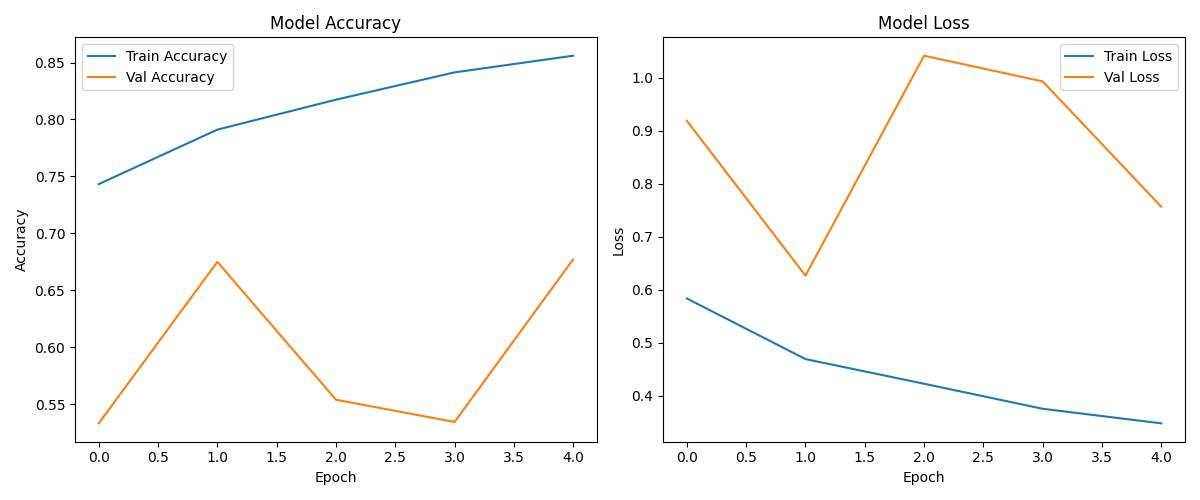
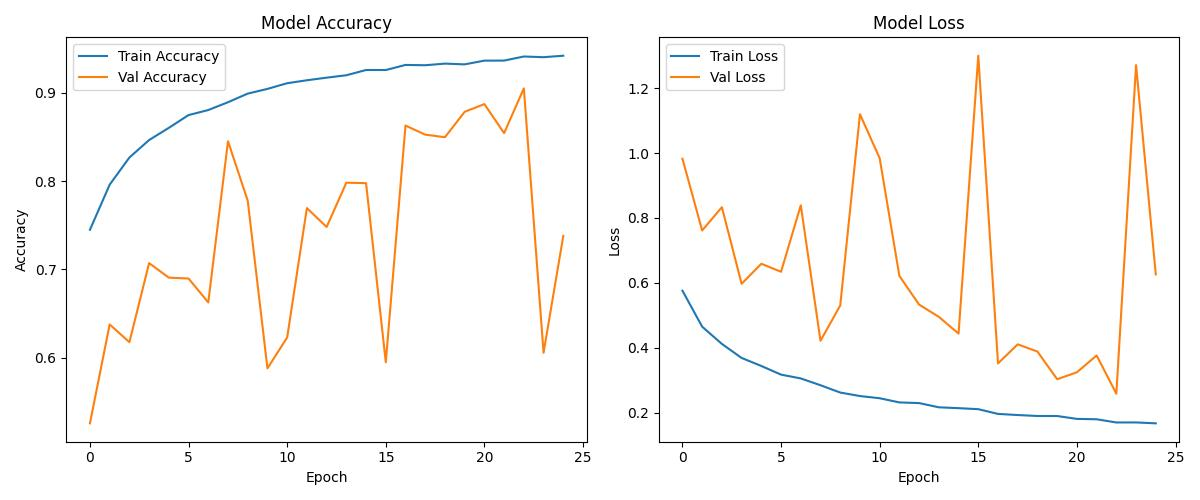
results using dropout wihtout early stopping

diff --git a/src/model-training/run.py b/src/model-training/run.py
@@ -28,9 +28,8 @@ def run():
     train_dataset, val_dataset = image_processor.resize_images('../data')
     print('Image arrays created')
 
-    # #0 = cat
-    # #1 = dog
-    # #2 = negative
+    # #0 = cat/dog
+    # #1 = negative
 
     classifier = ImageClassifier(image_processor.avg_img_height, image_processor.avg_img_height, 3)
     model = classifier.model()
@@ -39,8 +38,8 @@ def run():
                   loss='categorical_crossentropy',
                   metrics=['accuracy'])
 
-    early_stop = EarlyStopping(monitor='val_loss', patience=3, restore_best_weights=True)
-    model_history = model.fit(train_dataset, validation_data=val_dataset, epochs=25, callbacks=[early_stop])
+    # early_stop = EarlyStopping(monitor='val_loss', patience=3, restore_best_weights=True)
+    model_history = model.fit(train_dataset, validation_data=val_dataset, epochs=25)
 
     plot_loss_and_accuracy(model_history)
 

diff --git a/src/model-training/classifier.py b/src/model-training/classifier.py
@@ -23,9 +23,8 @@ class ImageClassifier():
             layers.Activation('relu'),
             layers.MaxPooling2D(),
             layers.GlobalAveragePooling2D(),
-            layers.Dropout(0.3),
             layers.Dense(128, activation='relu', kernel_regularizer=regularizers.l2(0.001)),
-            layers.Dropout(0.2),
+            layers.Dropout(0.5),
             layers.Dense(self.num_classes, activation='softmax')
         ])
 
